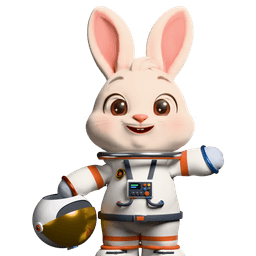
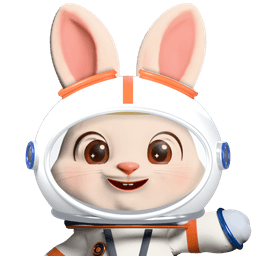
Rabi'yi Giydir: Astronot Rabi'nin kaskı başa takıldı
- Kask başta; kulaklar tepedeki iki turuncu kulak yuvasından (kovan + lastik
  dudak) dışarı çıkıyor, perçem kaskın altında.
- Beyaz kabuk, tepede turuncu şerit, mavi halkalı yan diskler, yukarıda
  ince altın güneşlik, yalnız kenardan yansıyan şeffaf vizör, gümüş boyun
  halkası; kaskın yüze ve omza düşürdüğü gölge.
- Kask kasksız render'ın üstüne katman katman bindirildi; ikon yeni
  görselden kırpıldı, maskot kuralları güncellendi.

Claude-Session: https://claude.ai/code/session_01N5eM5Zhn9zt8LXE1kyh4Qh

diff --git a/docs/kurallar/maskot-ve-ikon.md b/docs/kurallar/maskot-ve-ikon.md
@@ -154,16 +154,24 @@ Rabi proje kurallarının bir parçası — dizin ve genel kurallar: [AGENTS.md]
   görsel, `hazir: true`, yuva kayıt biçimi için `boyun`. Her biri kendi sahnesinde
   (`rabi_<id>.blend`, `<id>_kur.py`, `<id>_katman.py`); ortak üretim rehberi
   `giydir-betikleri/AVATAR_REHBER.md` (kamera, kalite dersleri).
-  - Astronot Rabi (`astronot`, kullanıcı istedi, 2026-11-02): uzay giysisi; **kask başta
-    değil, sağ elde** boyun ağzından tutulup aşağı sarkar (kullanıcı başta kaskı beğenmedi,
-    2026-11-03; başa geri takma). Kulaklar dik, sol el sallıyor. Giysi `astronot_kur.py` →
-    `rabi_astronot.blend` (kasklı kurar); `astronot_elde_kur.py` kaskı `el.R`ye bağlar, kulak
-    tüyünü `rabi_giydir6.blend`ten geri yazar → `rabi_astronot_elde.blend`; yerleşim
-    `astronot_elde.py`. Kask kafa boyunda ve kollar kısa: tam boyda yere girer, bu yüzden
-    0.47 ölçekte. Altın güneşlik inik (boş vizörün arkası gri disk gibi okunuyordu). Yüz
-    `astronot_doku.py`, çizim `astronot_katman.py` (kulak yalnız kask `bas`a bağlıyken gizli),
-    sıkıştırma `astronot_sikistir.mjs`. Turuncu kol/paça şeritleri ve eldiven geçişi üçgen
-    dişi yapmaması için düğüm ağacında `giysi_konum` ve `kol_maske` üzerinden boyanır.
+  - Astronot Rabi (`astronot`, kullanıcı istedi, 2026-11-02): uzay giysisi; **kask başta,
+    kulaklar kaskın tepesindeki iki turuncu kulak yuvasından dışarı çıkar** (kullanıcı istedi,
+    2026-11-03). Denenip beğenilmeyenler: kulakları gizleyen, alnı altın güneşlikle örten kask
+    (ilk sürüm) ve kaskın sağ elde sarkması. Kulak yuvası düz halka değil kısa kovan + lastik
+    dudak: önden bakınca düz halka çizgi gibi okunuyordu. Tepede önden arkaya turuncu şerit,
+    yanlarda mavi halkalı diskler (bilek halkalarıyla aynı mavi), altın güneşlik yukarıda
+    (açıklığın tepesinde ince şerit). Cam yalnız Fresnel yansıması + yumuşak pencere ışığı:
+    yansıma paneli yüze denk gelince gözün yanında dikdörtgen leke bırakıyordu.
+    - Kask kasksız render'ın üstüne **bindirilir** (`astronot_kask.py` Blender'da kaskı
+      kurup katmanları çizer, `astronot_birlestir.py` birleştirir): arka kabuk → Rabi → ön
+      kabuk → yuvanın arka yayı → kulağın dışarıdaki kısmı → yuvanın ön yayı. Ön/arka
+      ayrımı kameraya dik düzlemle; perçem ön kabuğun altında kalır. Kaskın yüze ve
+      omza düşürdüğü gölge kafa/gövde vekilinden `1 − B/A` ile alınır; kulak kökü yalnız
+      dudak yayı boyunca karartılır (bindirme çokgeninin yan kenarı kulakta dikiş bırakıyordu).
+    - Giysi `astronot_kur.py` → `rabi_astronot.blend`; yüz `astronot_doku.py`, çizim
+      `astronot_katman.py`, sıkıştırma `astronot_sikistir.mjs`. Turuncu kol/paça şeritleri ve
+      eldiven geçişi üçgen dişi yapmaması için düğüm ağacında `giysi_konum` ve `kol_maske`
+      üzerinden boyanır. İkon tam görselin 640'lık kırpımı (x 130, y 70) → 256.
   - Sokak Stili (`sokak`): ters şapka **siyah** (kullanıcı istedi, 2026-11-03), kumaş
     parlaklığı ve lif dokusuyla. Eller cepte: yen bilek kemiğine bağlanmaz (bilek küçülünce
     yen de büzülüp cep ağzında yıldız kırışık yapıyordu); manşet ribanası yok, hoodie dokusu
